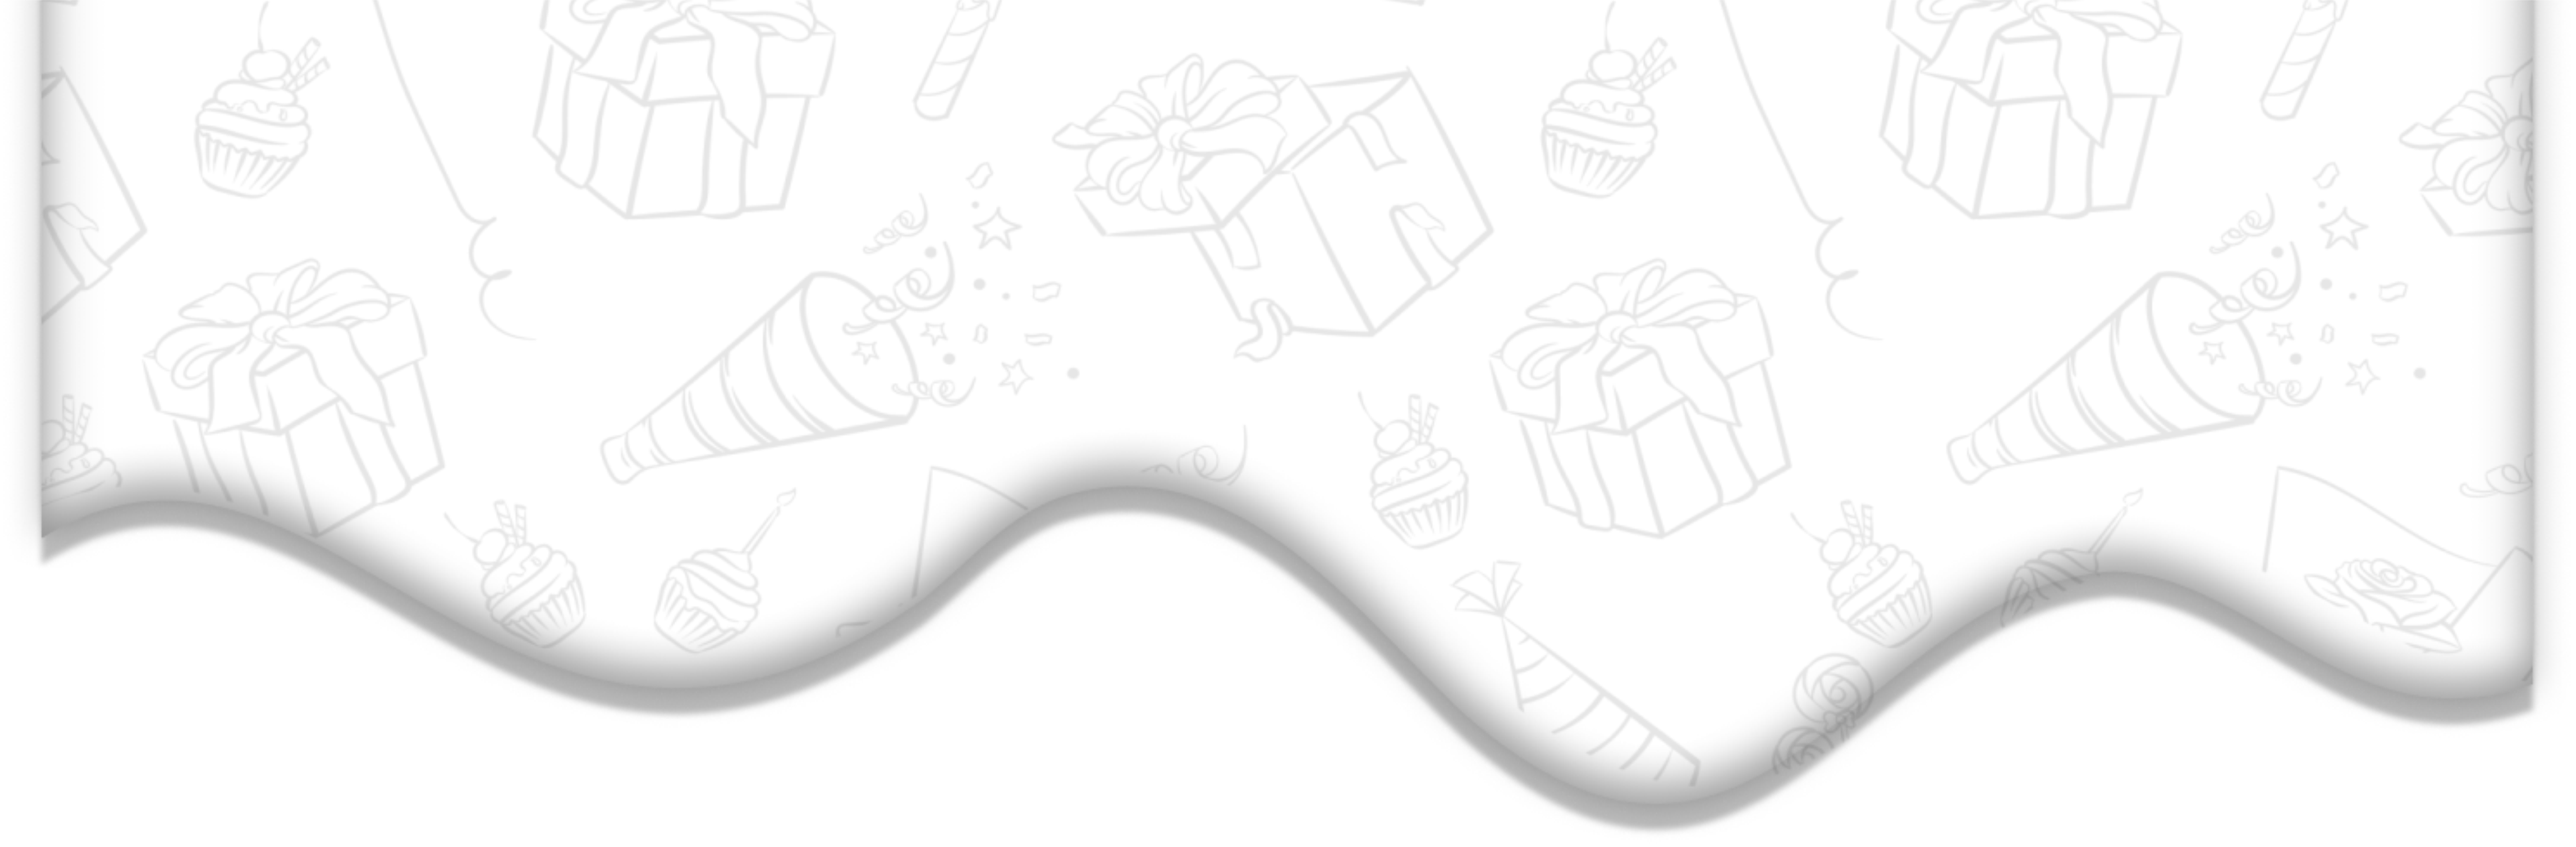
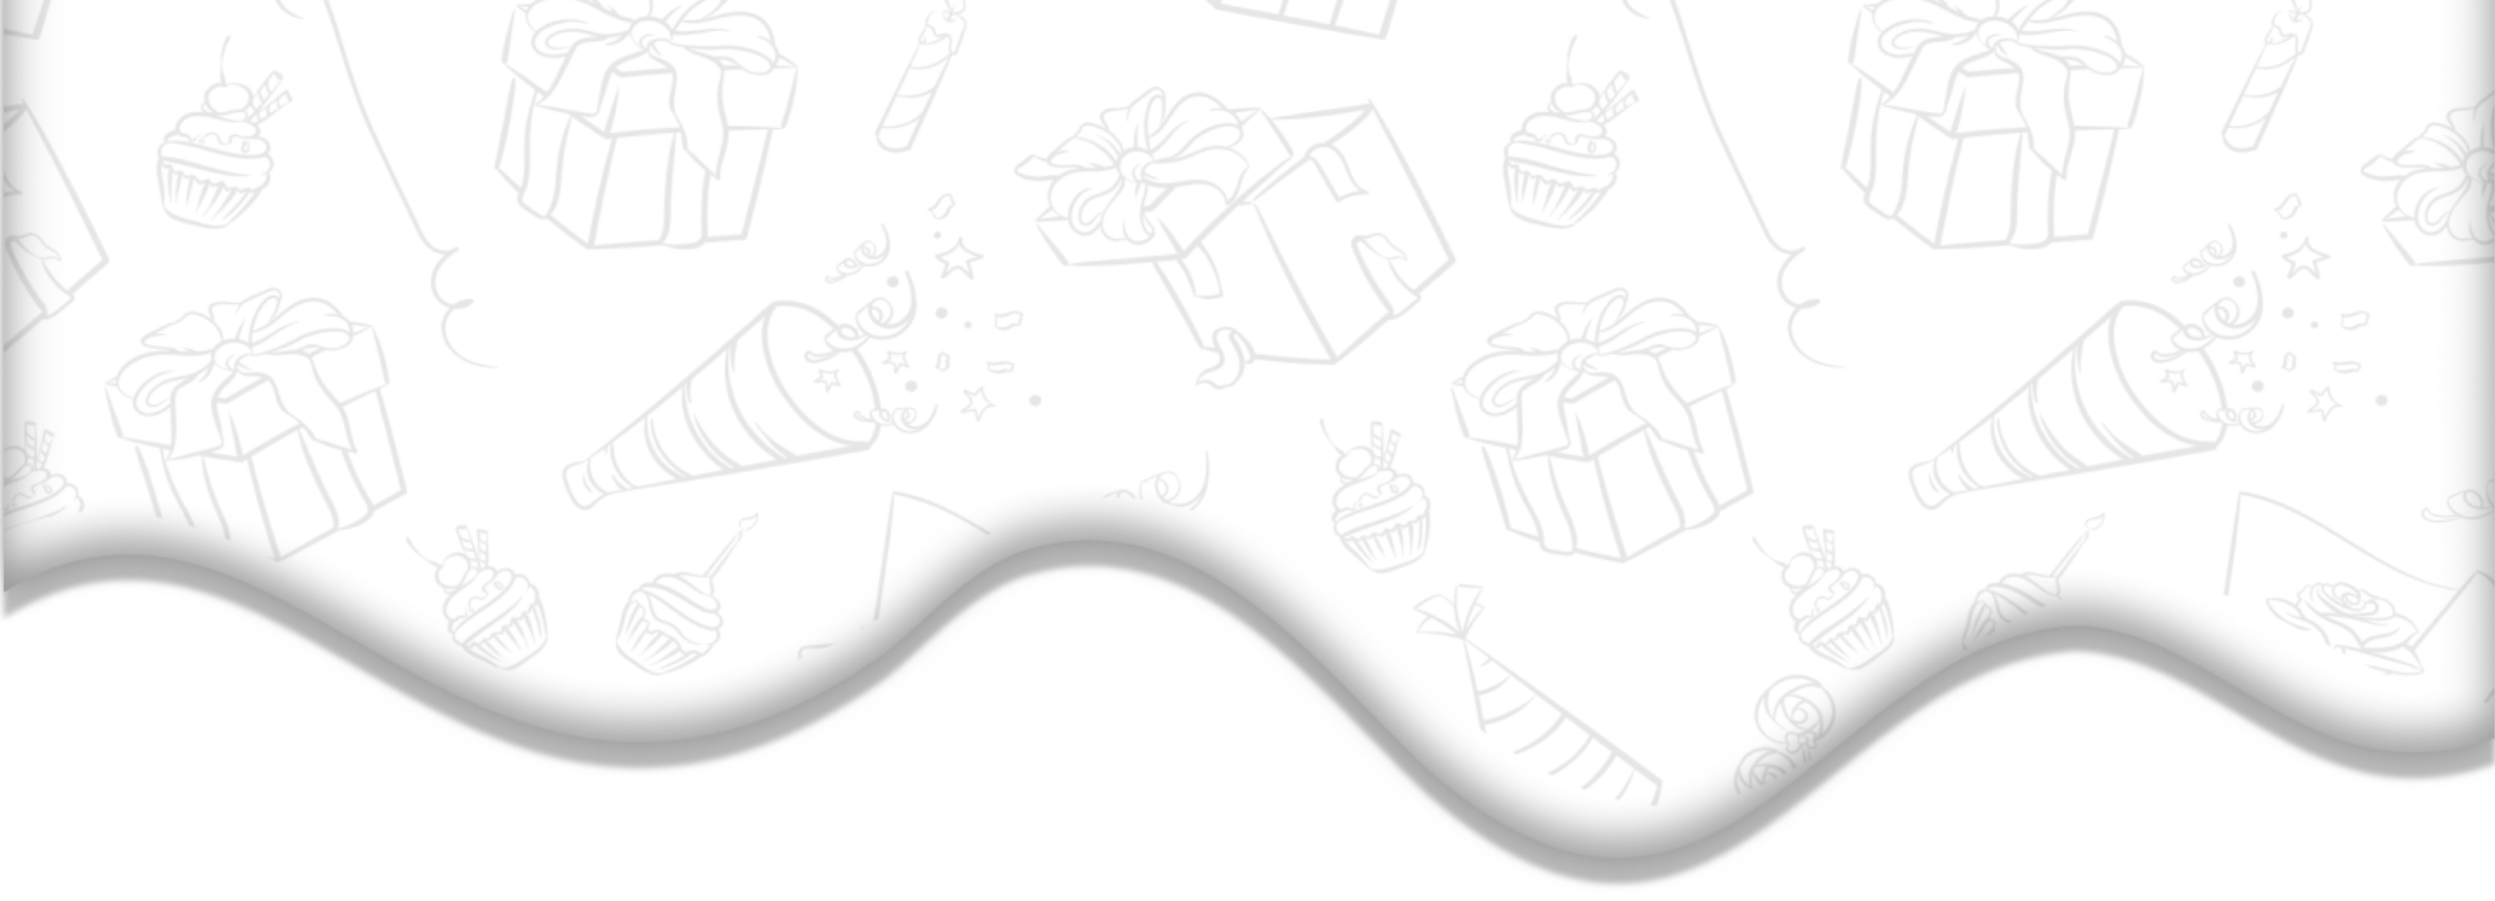
cambios de imagenes en componente padre prod

diff --git a/src/Components/Products/Products.js b/src/Components/Products/Products.js
@@ -1,5 +1,4 @@
 import React from "react";
-<<<<<<< HEAD
 import "./Products.css";
 
 const Products = () => {
@@ -8,18 +7,6 @@ const Products = () => {
       <h1 className="title-prod">NUESTROS PRODUCTOS</h1>
 
       <div className="subcontainer-prod">
-=======
-import "./Products.css"; 
-import Sliderprod from '../Slider-prod/Slider-prod'
-function Products() {
-  return (
-    <div className="container-prod">
-      <h1 className="title-prod">NUESTROS PRODUCTOS</h1>
-      <div className="subcontainer-prod">
-
-      <Sliderprod/>
-      
->>>>>>> c58c6a9a71f288c2920b4132cb2492a6979f1039
         <div className="content-prod">
           <p>
             Contamos con un amplio surtido en productos, abarcando carnaval,

diff --git a/src/Components/Prod-serv/Prod-serv.js b/src/Components/Prod-serv/Prod-serv.js
@@ -3,15 +3,17 @@ import Products from './../Products/Products';
 import Services from './../Services/Services';
 import './Prod-serv.css';
 import Imghead from '../../Assets/Img/wave - header.png';
-
+import Imgbot from '../../Assets/Img/wave- footer.png';
 
 const ProdServ = () => {
     return (
-        <div className='prodserv'>
-            <img src={Imghead} className='prodhead'/>
-            <Services/>
-            <Products/>
-        </div>
+      <div className="prodserv">
+        <img src={Imghead} className="prodhead" />
+        <img src={Imgbot} className="prodbot" />
+
+        <Services />
+        <Products />
+      </div>
     );
 }
 

diff --git a/src/Components/Prod-serv/Prod-serv.css b/src/Components/Prod-serv/Prod-serv.css
@@ -2,9 +2,9 @@
   height: 1500px;
   position: relative;
   background-image: url(../../Assets/Img/background\ center.png);
-  background-size: cover;
-  background-position: 50px -200px;
+  background-size: contain;
   z-index: 1;
+  background-position: center;
 }
 .prd-img {
   height: 100%;
@@ -14,7 +14,16 @@
 .prodhead{
   position: absolute;
   height: auto;
-  left: -20px;
+  left: 0px;
   width: 100%;
   top: -400px;
+}
+
+.prodbot{
+  position: absolute;
+  height: auto;
+  width: 100%;
+  left: 0px;
+  bottom: -390px;
+  z-index: -2;
 }
